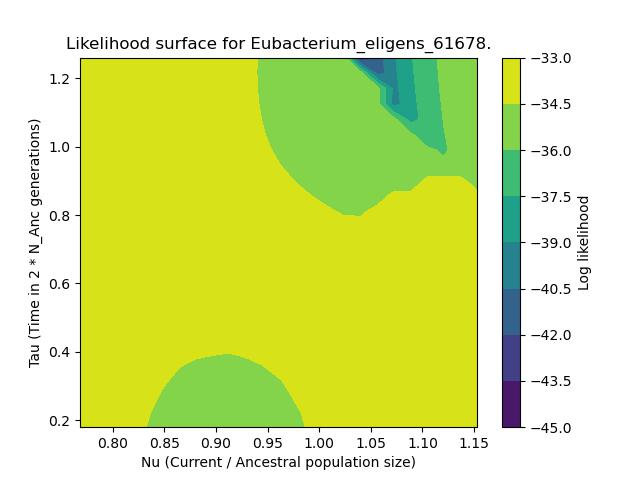
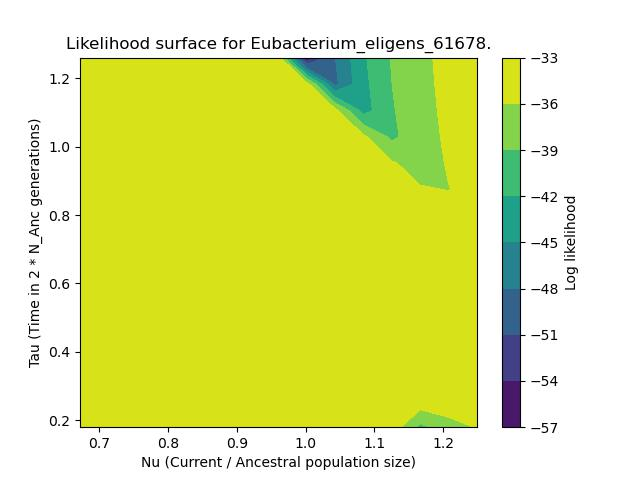
E. eligens

diff --git a/Scripts/plot_likelihood.py b/Scripts/plot_likelihood.py
@@ -463,15 +463,15 @@ class PlotLikelihood():
             with open(file, 'w') as f:
                 x = input_nu  # Initial x value
                 y = input_tau  # Initial y value
-
-                npts = 25
+                
+                npts = 15
 
                 # B. cellulosilyticus
                 # x_range = numpy.linspace(x * 0.7, x * 1.3, npts)
                 # y_range = numpy.linspace(y  * 0.9, y * 1.3, npts)
 
                 # E. eligens
-                x_range = numpy.linspace(x * 0.8, x * 1.2, npts)
+                x_range = numpy.linspace(x * 0.7, x * 1.3, npts)
                 y_range = numpy.linspace(y * 0.5, y * 3.5, npts)
                 
 
